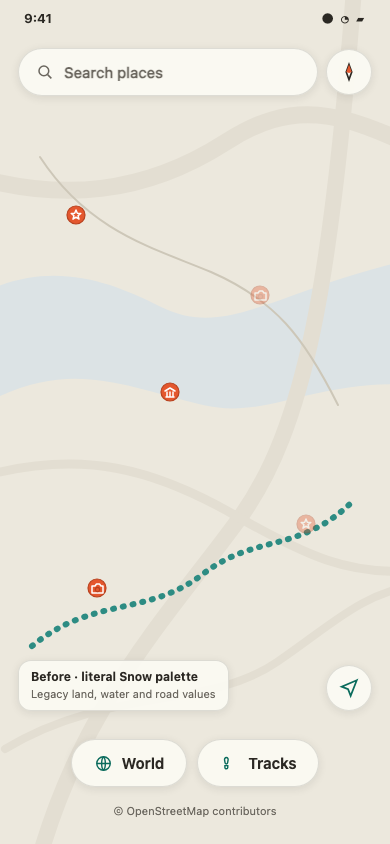
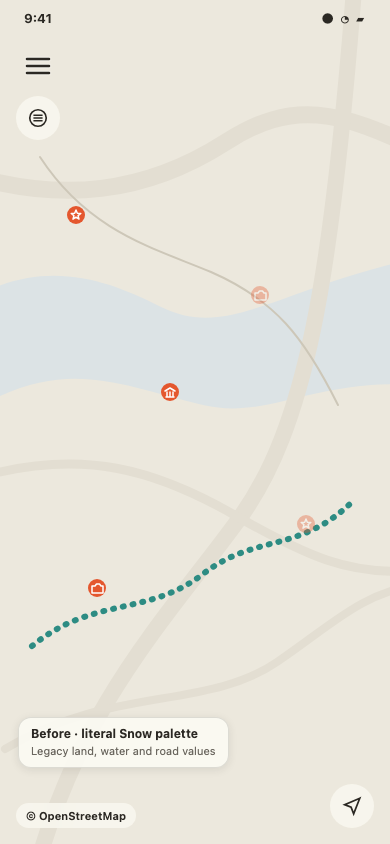
Render current T1.5 map chrome

diff --git a/docs/design/design-system/t1.5-map-theme-evidence.html b/docs/design/design-system/t1.5-map-theme-evidence.html
@@ -134,6 +134,11 @@
     stroke-linejoin: round;
   }
   .pin.faded { opacity: 0.35; }
+  body[data-variant="ax"] .pin {
+    transform: scale(1.3333);
+    transform-box: fill-box;
+    transform-origin: center;
+  }
 </style>
 </head>
 <body>
@@ -152,25 +157,35 @@
   </svg>
 
   <svg class="pins" viewBox="0 0 390 844" aria-hidden="true">
-    <g class="pin" transform="translate(66 205)">
-      <circle cx="10" cy="10" r="9"/>
-      <polygon points="10,5 11.3,8.3 14.8,8.5 12.1,10.7 13,14.1 10,12.2 7,14.1 7.9,10.7 5.2,8.5 8.7,8.3"/>
+    <g transform="translate(66 205)">
+      <g class="pin">
+        <circle cx="10" cy="10" r="9"/>
+        <polygon points="10,5 11.3,8.3 14.8,8.5 12.1,10.7 13,14.1 10,12.2 7,14.1 7.9,10.7 5.2,8.5 8.7,8.3"/>
+      </g>
     </g>
-    <g class="pin faded" transform="translate(250 285)">
-      <circle cx="10" cy="10" r="9"/>
-      <path d="M5 8h3l1.5-2h3L14 8h2v7H5Z"/><circle cx="10.5" cy="11.5" r="2.2"/>
+    <g transform="translate(250 285)">
+      <g class="pin faded">
+        <circle cx="10" cy="10" r="9"/>
+        <path d="M5 8h3l1.5-2h3L14 8h2v7H5Z"/><circle cx="10.5" cy="11.5" r="2.2"/>
+      </g>
     </g>
-    <g class="pin" transform="translate(160 382)">
-      <circle cx="10" cy="10" r="9"/>
-      <path d="m5 9 5-3 5 3M6 15h8M7 10v4m3-4v4m3-4v4"/>
+    <g transform="translate(160 382)">
+      <g class="pin">
+        <circle cx="10" cy="10" r="9"/>
+        <path d="m5 9 5-3 5 3M6 15h8M7 10v4m3-4v4m3-4v4"/>
+      </g>
     </g>
-    <g class="pin faded" transform="translate(296 514)">
-      <circle cx="10" cy="10" r="9"/>
-      <polygon points="10,5 11.3,8.3 14.8,8.5 12.1,10.7 13,14.1 10,12.2 7,14.1 7.9,10.7 5.2,8.5 8.7,8.3"/>
+    <g transform="translate(296 514)">
+      <g class="pin faded">
+        <circle cx="10" cy="10" r="9"/>
+        <polygon points="10,5 11.3,8.3 14.8,8.5 12.1,10.7 13,14.1 10,12.2 7,14.1 7.9,10.7 5.2,8.5 8.7,8.3"/>
+      </g>
     </g>
-    <g class="pin" transform="translate(87 578)">
-      <circle cx="10" cy="10" r="9"/>
-      <path d="M5 8h3l1.5-2h3L14 8h2v7H5Z"/><circle cx="10.5" cy="11.5" r="2.2"/>
+    <g transform="translate(87 578)">
+      <g class="pin">
+        <circle cx="10" cy="10" r="9"/>
+        <path d="M5 8h3l1.5-2h3L14 8h2v7H5Z"/><circle cx="10.5" cy="11.5" r="2.2"/>
+      </g>
     </g>
   </svg>
 
@@ -200,8 +215,8 @@
     title.textContent = "Before · literal Snow palette";
     detail.textContent = "Legacy land, water and road values";
   } else if (variant === "ax") {
-    title.textContent = "After · AX controls";
-    detail.textContent = "Token Snow · constant orange pins";
+    title.textContent = "After · AX pin size";
+    detail.textContent = "160% pins · constant orange";
   } else {
     title.textContent = "After · DesignSystem Snow";
     detail.textContent = "AC34 · pins pop over token ground";
